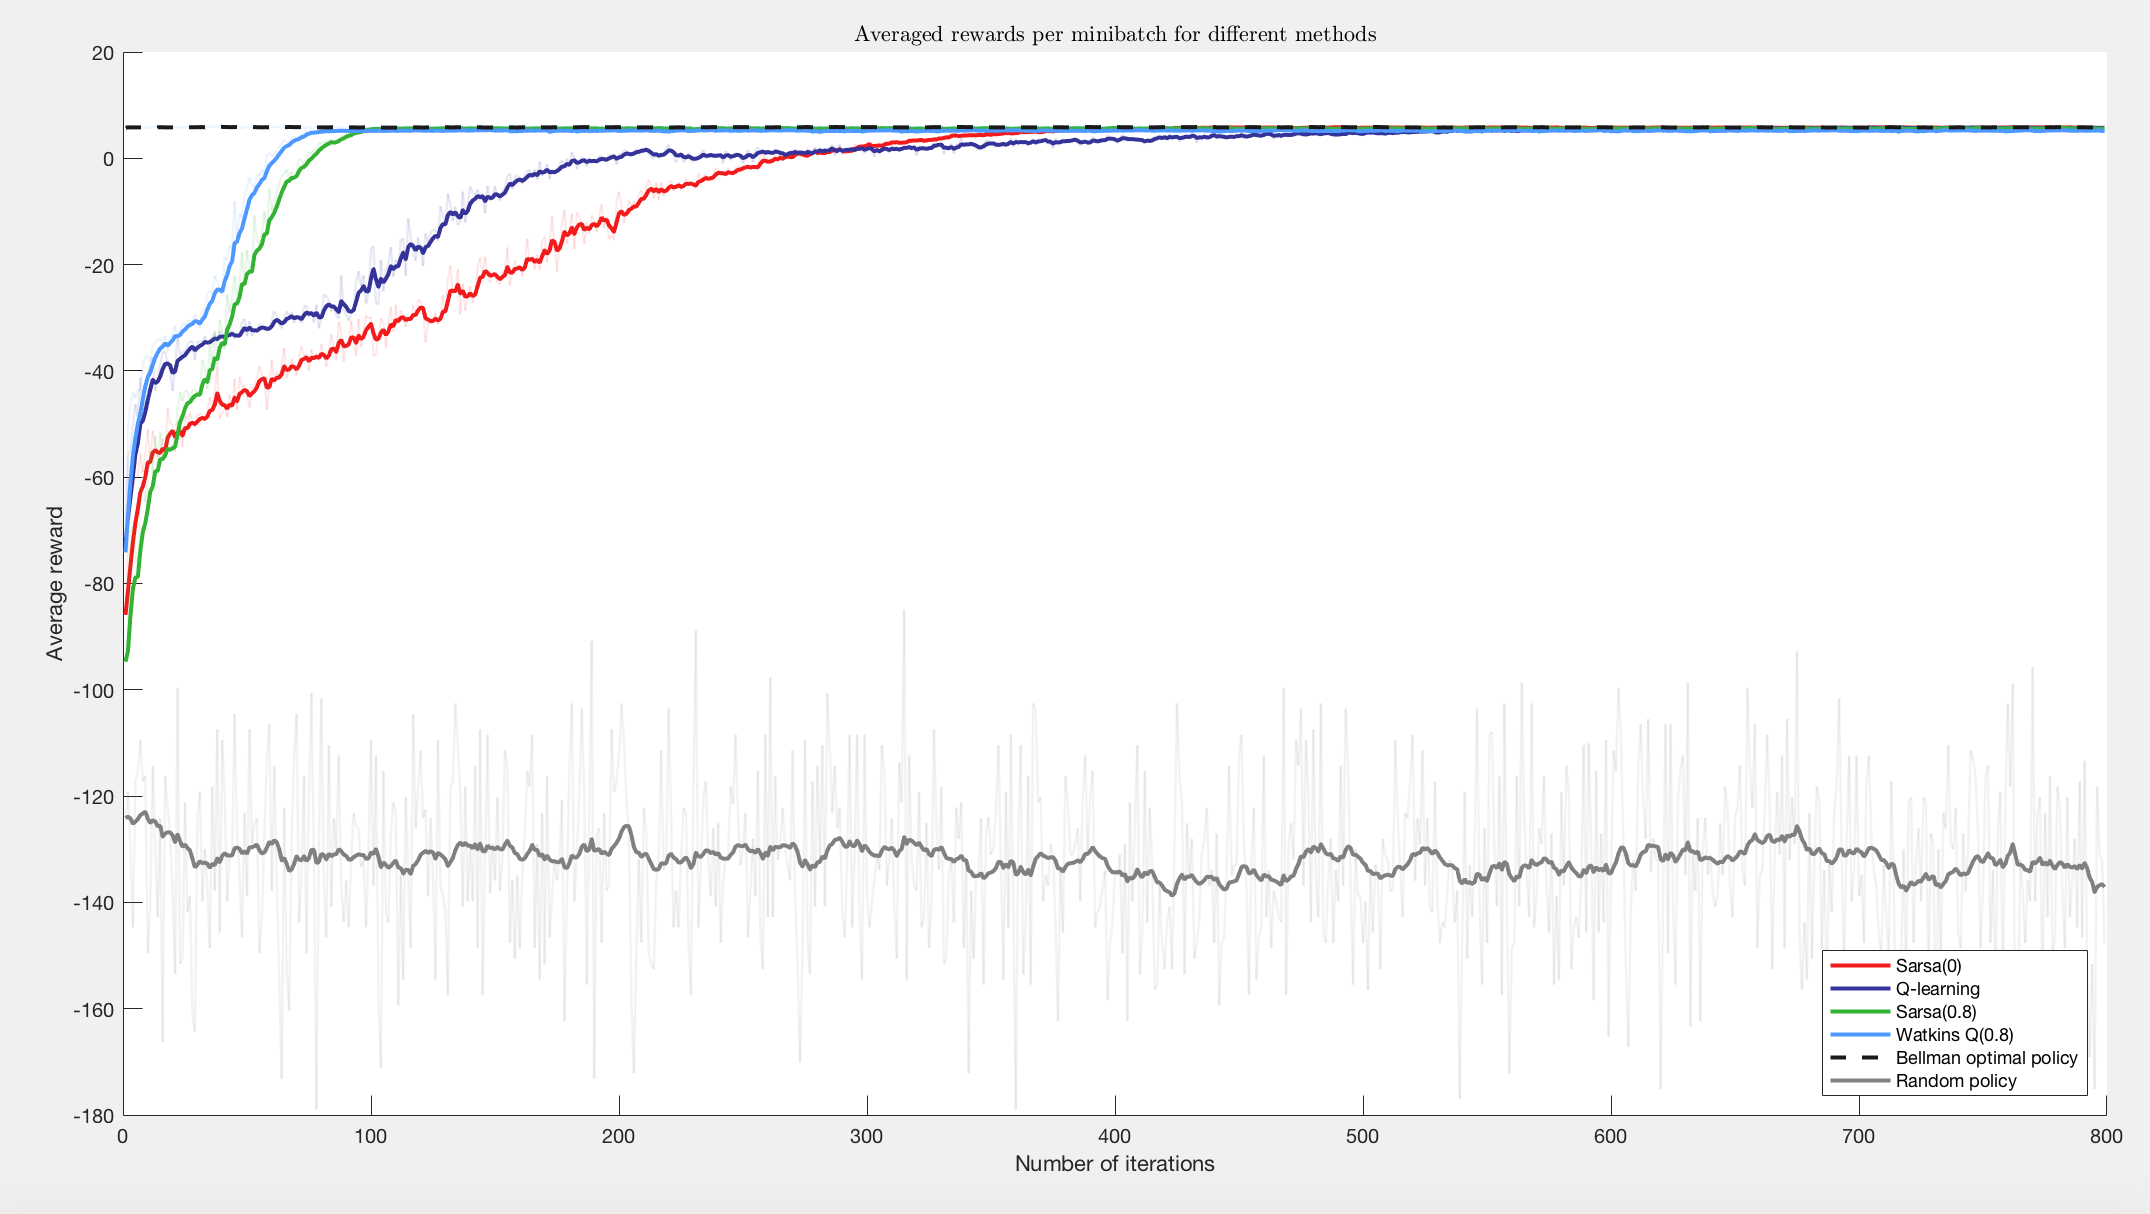
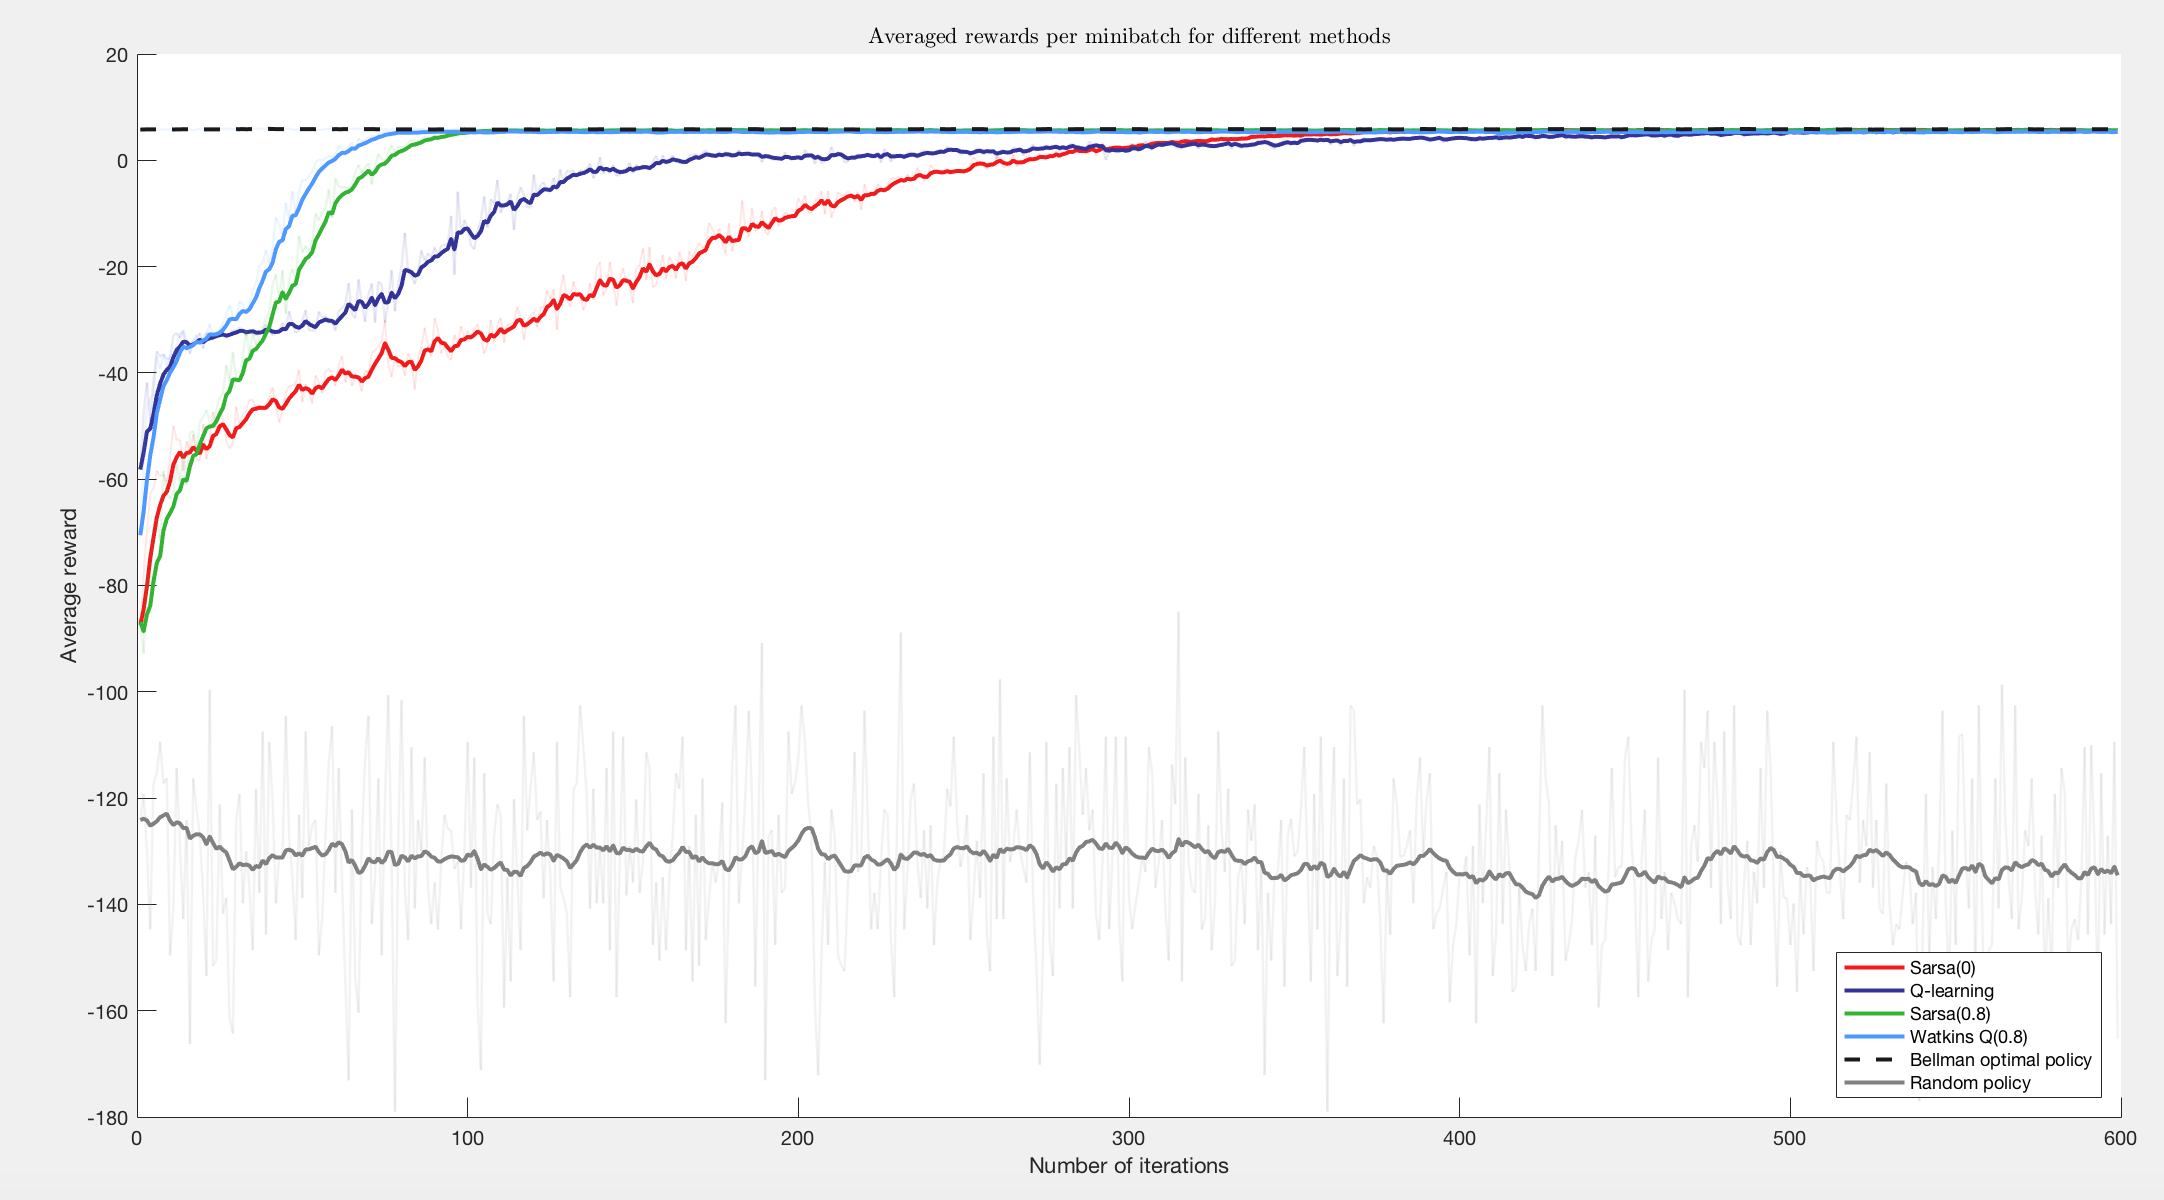
Replots maze method comparaison figures

diff --git a/code/utils/configure_mdp.m b/code/utils/configure_mdp.m
@@ -46,15 +46,15 @@ switch model_name
         mdp.force_start = [1,41,1681,1641];
         mdp.max_search = 320;
         % sarsa
-        mdp.sarsa.max_iter = 800;
+        mdp.sarsa.max_iter = 600;
         mdp.sarsa.init_temp = 4;
         mdp.sarsa.temp_mult = 0.99;
         mdp.sarsa.stop_criterion = 0.0001;
         mdp.sarsa.default_value = 3;
         mdp.sarsa.init_lr = 1;
         % q-learning
-        mdp.ql.max_iter = 800;
-        mdp.ql.init_temp = 2;
+        mdp.ql.max_iter = 600;
+        mdp.ql.init_temp = 1;
         mdp.ql.stop_criterion = 0.001;
         mdp.ql.optimistic_init = true;
         mdp.ql.default_value = 1;
@@ -68,7 +68,7 @@ switch model_name
         mdp.sarsa_lambda.init_lr = 0.5;
         mdp.sarsa_lambda.lambda = 0.8;
         % Watkins Q(lambda)
-        mdp.ql_lambda.max_iter = 800;
+        mdp.ql_lambda.max_iter = 200;
         mdp.ql_lambda.init_temp = 2;
         mdp.ql_lambda.temp_mult = 0.95;
         mdp.ql_lambda.stop_criterion = -0.1; % TODO : solve this issue

diff --git a/code/main.m b/code/main.m
@@ -26,15 +26,15 @@ tic
 
 %% policy iteration and other mdp solving algos
 % with bellman
-[pi_star,mdp] = bellman_solve_mdp(mdp);
+%[pi_star,mdp] = bellman_solve_mdp(mdp);
 % with Q-learning
 %[pi_star,mdp] = qlearning_solve_mdp(mdp);
 % with SARSA
 %[pi_star,mdp] = sarsa_solve_mdp(mdp);
 % with SARSA(lambda) 
 %[pi_star,mdp] = sarsa_lambda_solve_mdp(mdp);
-% with Watkins Q(lambda) TODO 
-%[pi_star,mdp] = qlearning_lambda_solve_mdp(mdp);
+% with Watkins Q(lambda) 
+[pi_star,mdp] = qlearning_lambda_solve_mdp(mdp);
 
 %% plots the optimal policy 
 toc
